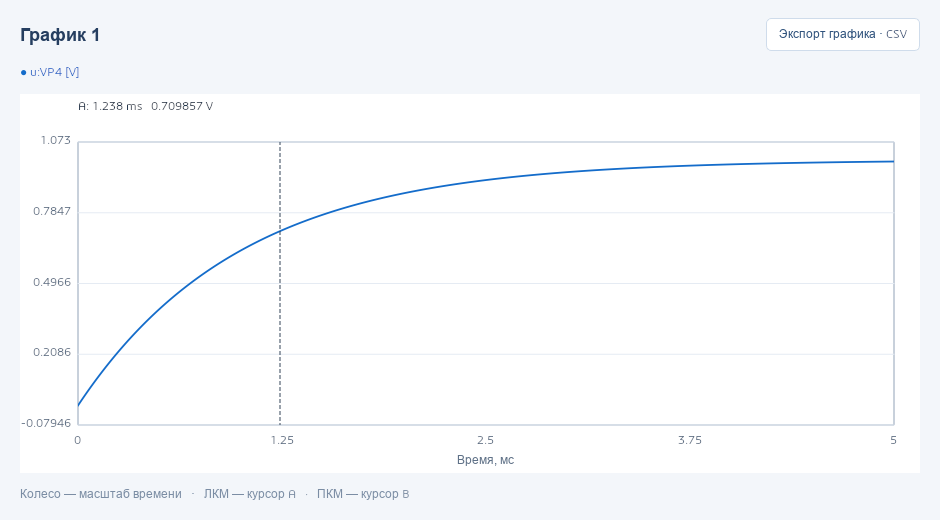
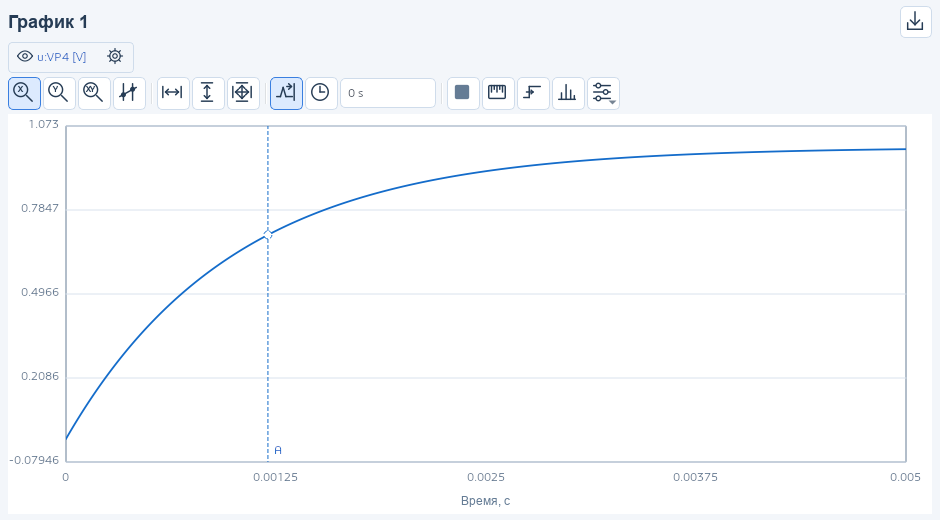
Снимки интерфейса приведены к текущему рабочему окну
Снимок RC и отдельного графика повторно получены из оконных тестов после расчёта. Для документального кадра тест задаёт размер окна и нижней панели, чтобы осциллограмма оставалась видимой; обычное поведение приложения и тестовый сценарий без переменной снимка не меняются.

Оба кадра просмотрены визуально. Сценарии create_connect_edit_run_save_recover и independent_plots_and_recording_off прошли с экспортом кадров; обычная группа CTest desktop прошла 1/1, git diff --check без замечаний.

diff --git a/tests/desktop_tests.cpp b/tests/desktop_tests.cpp
@@ -10,6 +10,7 @@
 #include <QComboBox>
 #include <QDialog>
 #include <QDialogButtonBox>
+#include <QDockWidget>
 #include <QGraphicsItem>
 #include <QGraphicsPathItem>
 #include <QGraphicsScene>
@@ -260,6 +261,14 @@ class DesktopTests : public QObject {
         QVERIFY(window.project().cursor_b > window.project().cursor_a);
         const auto screenshot = qEnvironmentVariable("PDS_SCREENSHOT_PATH");
         if (!screenshot.isEmpty()) {
+            window.resize(1600, 1000);
+            auto *results = window.findChild<QDockWidget *>("results");
+            auto *inspector = window.findChild<QDockWidget *>("inspector");
+            QVERIFY(results);
+            QVERIFY(inspector);
+            window.resizeDocks({results}, {420}, Qt::Vertical);
+            window.resizeDocks({inspector}, {350}, Qt::Horizontal);
+            QTest::qWait(50);
             window.select_object(c);
             QTest::qWait(50);
             window.findChild<QAction *>("action_fit")->trigger();
